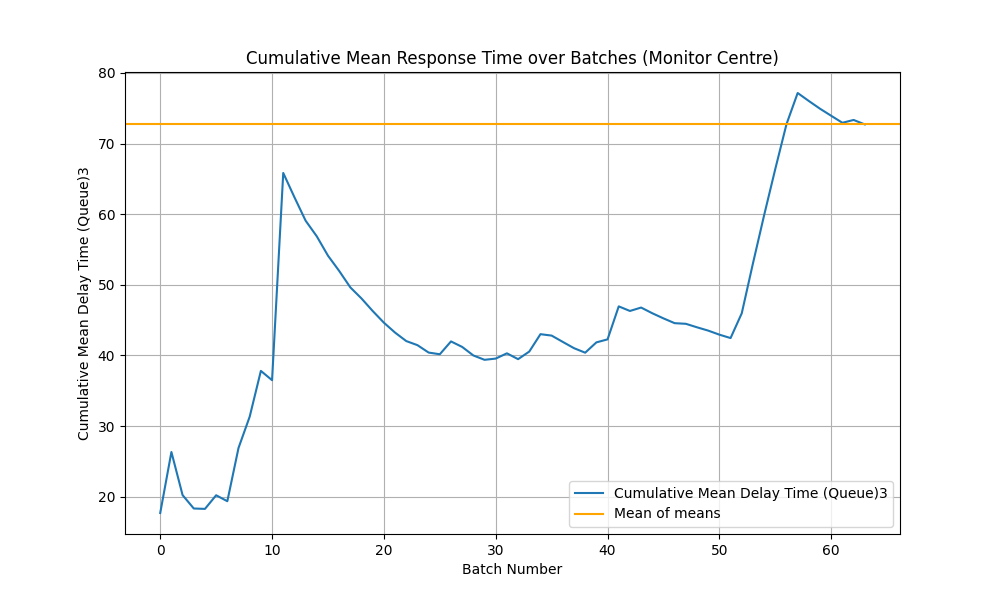
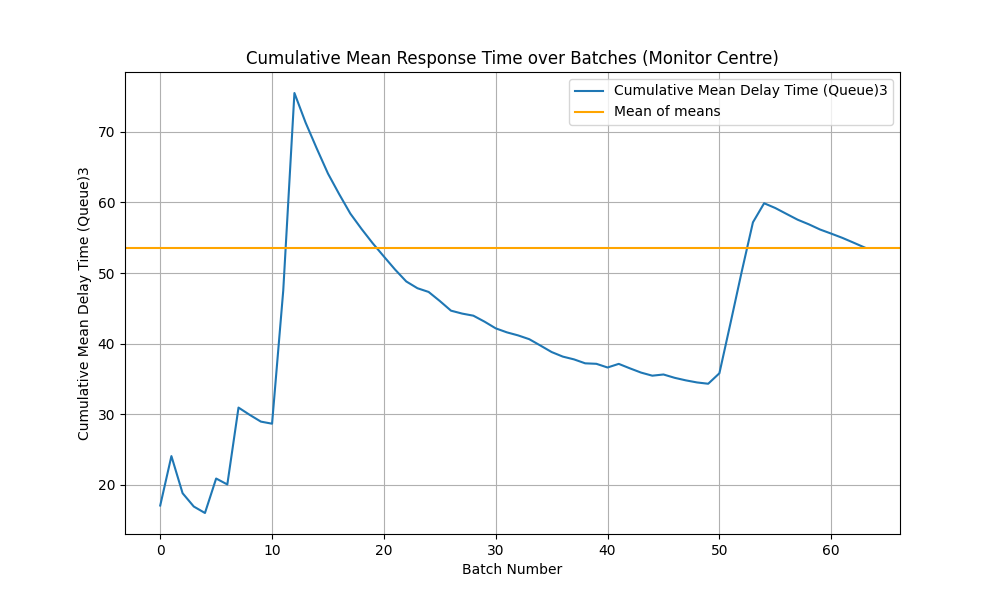
verifica

diff --git a/controller/QueueController.py b/controller/QueueController.py
@@ -40,7 +40,7 @@ def return_to_queue(job: Job, queue_, t):
     if job.get_codice() == 1:
         queue_[1].append(job)
     else:
-        queue_[2].append(job)
+        queue_[6].append(job)
     job.set_arrival_temp(t_queue.current)
     arrival_queue(t_queue, servers_busy_queue, queue_)
     t_queue.arrival = t.current
@@ -183,6 +183,12 @@ def completion_queue(t, server_busy, queue_q, area):
             area_queue.service_preemption[get_queue(job_to_serve.get_codice(), job_to_serve.get_uscita())] += t.current - job_to_serve.get_interrotto()
 
     if isinstance(job_completed, Job) and job_completed:
+        area.wait_time[job_completed.get_codice() + 1] += t.current - job_completed.get_arrival_temp()
+        area.jobs_complete_color[job_completed.get_codice() + 1] += 1
+        area.delay_time[
+            job_completed.get_codice() + 1] += job_completed.get_queue_time() - job_completed.get_arrival_temp()
+        return job_completed
+
         if job_completed.get_uscita():
             if job_completed.get_codice() == 1:
                 area.wait_time[1] += t.current - job_completed.get_arrival_temp()
@@ -207,28 +213,13 @@ def completion_queue(t, server_busy, queue_q, area):
 
 
 def queue_data(area, t, queue_first):
-    logger.info("STATS FOR INITIAL QUEUE")
-    logger.info(f"Average inter-arrival time: {t.last / sum(area.jobs_completed):.2f}")
-    logger.info(f"Average wait: {sum(area.wait_time) / sum(area.jobs_completed):.2f}")
-    logger.info(f"Average delay: {sum(area.delay_time) / sum(area.jobs_completed):.2f}")
-    logger.info(f"Average service: {(sum(area.wait_time) - sum(area.delay_time)) / sum(area.jobs_completed):.2f}")
-    logger.info(f"Average service no preemptive: {sum(area.service_color) / sum(area.jobs_completed):.2f}")
-
-    logger.info(f"Average number_queue in the node: {sum(area.wait_time) / t.last:.2f}")
-    logger.info(f"Average number_queue in the queue: {sum(area.delay_time) / t.last:.2f}")
-
-    for i in range(NUMERO_DI_SERVER_QUEUE):
-        utilization = area.service[i] / t.last if t.last > 0 else 0
-        avg_service_time = area.service[i] / area.jobs_completed[i] if area.jobs_completed[
-                                                                           i] > 0 else 0
-        logger.info(f"Utilization of server {i + 1}: {utilization:.2f}")
-        logger.info(f"Average service time of server {i + 1}: {avg_service_time:.2f}")
-        logger.info(f"t_last {i + 1}: {t.last:.2f}")
-        logger.info(f"Servizio {i + 1}: {area.service[i]:.2f}")
+    print("\nStats for queue:")
+    utilization = sum(area.service) / (t.last*NUMERO_DI_SERVER_QUEUE)
+    print(f"Rho: {utilization:.6f}")
 
     for i in range(len(queue_first)):
         if area.jobs_complete_color[i] != 0:
-            logger.info(
-                f"Tempo di risposta medio {i + 1}: {area.wait_time[i] / area.jobs_complete_color[i]:.10f}")
-            logger.info(
-                f"Tempo di attesa medio {i + 1}: {area.delay_time[i] / area.jobs_complete_color[i]:.10f}")
+            print(
+                f"E[Tq]: {area.delay_time[i] / area.jobs_complete_color[i]:.6f} min")
+            print(
+                f"E[Ts]: {area.wait_time[i] / area.jobs_complete_color[i]:.6f} min")

diff --git a/controller/EsamiController.py b/controller/EsamiController.py
@@ -89,6 +89,7 @@ def pass_to_analisi(job, queue1, t1):
     t_Analisi[analisi].arrival = t1.last
     t_Analisi[analisi].arrival = check_arrival(t1.arrival + Parameters.STOP)
     arrival_analisi(t_Analisi[analisi], servers_busy_Analisi[analisi], queue1[analisi], analisi)
+    job.set_arrival_temp(t1.current)
     return analisi
 
 
@@ -191,23 +192,10 @@ def probability_analisi(volte_analisi):
 
 
 def single_analisi_data(area, t, queue_first, index):
-    logger.info(f"STATS FOR ANALISI: {index:.0f}")
-    logger.info(
-        f"Average interarrival time: {t.last / sum(area.jobs_completed) if sum(area.jobs_completed) > 0 else 0:.2f}")
-    logger.info(f"Average wait: {area.node / sum(area.jobs_completed) if sum(area.jobs_completed) > 0 else 0:.2f}")
-    logger.info(f"Average delay: {area.queue / sum(area.jobs_completed) if sum(area.jobs_completed) > 0 else 0:.2f}")
-    logger.info(
-        f"Average service time: {sum(area.service) / sum(area.jobs_completed) if sum(area.jobs_completed) > 0 else 0:.2f}")
-    logger.info(f"Average number_triage in the node: {area.node / t.last:.8f}")
-    logger.info(f"Average number_triage in the queue: {area.queue / t.last:.8f}")
-    logger.info(f"T last: {t.last:.2f}")
+    print(f"\nStats for {analisi_disponibili[index]}:")
+    utilization = sum(area.service) / (t.last * NUMERO_SERVER_ANALISI[index])
+    print(f"Rho: {utilization:.6f}")
 
-    for i in range(NUMERO_SERVER_ANALISI[index]):
-        utilization = area.service[i] / t.last if t.last > 0 else 0
-        avg_service_time = area.service[i] / area.jobs_completed[i] if area.jobs_completed[i] > 0 else 0
-        logger.info(f"Utilization of server {i + 1}: {utilization:.8f}")
-        logger.info(f"Average service time of server {i + 1}: {avg_service_time:.2f}")
     for i in range(len(queue_first)):
         if area.jobs_complete_color[i] != 0:
-            logger.info(f"Attesa media {i + 1}: {area.wait_time[i] / area.jobs_complete_color[i]}")
-            logger.info(f"Tempo di attesa medio {i + 1}: {area.delay_time[i] / area.jobs_complete_color[i]:.10f}")
+            print(f"E[Ts]: {area.wait_time[i] / area.jobs_complete_color[i]:.6f} min")

diff --git a/report/calcolo_labda.py b/report/calcolo_labda.py
@@ -1,0 +1,60 @@
+def calculate_lambda_7(lambda_1, p_7, p_15, epsilon=1e-300):
+    """
+    Calcola il valore di lambda_7 iterativamente fino a convergenza.
+
+    Parametri:
+    - lambda_1: Valore di lambda_1.
+    - p_7: Valore di p_7.
+    - p_15: Valore di p_15.
+    - epsilon: Soglia di convergenza (default 1e-10).
+
+    Ritorna:
+    - Il valore di lambda_7 dopo la convergenza.
+    """
+    # Inizializza lambda_7 con un valore iniziale arbitrario (ad esempio 0)
+    lambda_7 = 0
+    diff = float('inf')  # Differenza iniziale grande
+
+    while diff > epsilon:
+        # Calcola la nuova somma ricorsiva con l'attuale lambda_7
+        new_lambda_7 = lambda_1 * (1 - p_7) + recursive_sum(lambda_1, p_7, lambda_7, p_15, epsilon)
+
+        # Calcola la differenza tra il vecchio e il nuovo valore di lambda_7
+        diff = abs(new_lambda_7 - lambda_7)
+
+        # Aggiorna lambda_7 per la prossima iterazione
+        lambda_7 = new_lambda_7
+
+    return lambda_7
+
+
+def recursive_sum(lambda_1, p_7, lambda_7, p_15, epsilon, current_term=1, power=1):
+    """
+    Funzione ricorsiva per calcolare la somma infinita.
+
+    Parametri:
+    - lambda_1, p_7, lambda_7, p_15: Parametri del sistema.
+    - epsilon: Soglia sotto la quale un termine è considerato insignificante.
+    - current_term: Termini già sommati (default 1).
+    - power: Potenza corrente di p_15 (default 1).
+
+    Ritorna:
+    - La somma calcolata ricorsivamente.
+    """
+    # Calcola il termine corrente
+    term = lambda_7 * (p_15 ** power)
+
+    # Se il termine corrente è minore di epsilon, fermati
+    if term < epsilon:
+        return 0
+
+    # Continua con la somma ricorsiva
+    return term + recursive_sum(lambda_1, p_7, lambda_7, p_15, epsilon, current_term + 1, power + 1)
+
+
+lambda_1 = 0.092163242
+p_7 = 0.0
+p_15 = 0.377141
+
+result = calculate_lambda_7(lambda_1, p_7, p_15)
+print("lambda_7 =", result)

diff --git a/controller/TriageController.py b/controller/TriageController.py
@@ -33,6 +33,7 @@ def give_code():
 
 
 def assign_triage_code():
+    return 5
     # Lista dei codici corrispondenti: 1 ROSSO, 2 ARANCIONE, 3 BLU, 4 VERDE, 5 BIANCO
     codes = [1, 2, 3, 4, 5]
     cumulative_probabilities = [0.063, 0.259, 0.642, 0.948, 1.0]  # Probabilità cumulative
@@ -153,24 +154,14 @@ def completion_triage(t, server_busy, queue_t, area):
 
 def triage_data(area, t, queue_t):
     total_jobs_completed = sum(area.jobs_completed)
-    logger.info("STATS FOR TRIAGE")
-    logger.info(f"Average inter-arrival time: {t.last / total_jobs_completed:.2f}")
-    logger.info(f"Average wait: {area.node / total_jobs_completed:.2f}")
-    logger.info(f"Average delay: {area.queue / total_jobs_completed:.2f}")
-    logger.info(f"Average delay NOW: {sum(area.delay_time) / total_jobs_completed:.2f}")
-    logger.info(f"Average service time: {(sum(area.service) + area.service_preemptive) / total_jobs_completed:.2f}")
-    logger.info(f"Average number in the node: {area.node / t.last:.2f}")
-    logger.info(f"Average number in the queue: {area.queue / t.last:.2f}")
-    logger.info(f"T last: {t.last:.2f}")
+    print("\n\n\n\n\n\n\n\n\n\nStats for triage:")
+
 
     for i in range(NUMERO_DI_SERVER_TRIAGE):
         utilization = area.service[i] / t.last if t.last > 0 else 0
-        logger.info(f"Utilization of server {i + 1}: {utilization:.2f}")
-    for i in range(len(queue_t)):
-        if area.jobs_complete_color[i] != 0:
-            logger.info(f"Tempo di risposta medio {i + 1}: {area.wait_time[i] / area.jobs_complete_color[i]:.10f}")
-            logger.info(f"Tempo di attesa medio {i + 1}: {area.delay_time[i] / area.jobs_complete_color[i]:.10f}")
+        print(f"Rho: {utilization:.6f}")
 
+    print(f"E[Ts]: {area.node / total_jobs_completed:.6f} min")
 
 def triage_data_rec(area, t, queue_t):
     logger.info(f"Average wait: {sum(area.wait_time) / sum(area.jobs_completed):.2f}")

diff --git a/controller/SimulationController.py b/controller/SimulationController.py
@@ -134,6 +134,14 @@ def simulation(stop, batch_size = 1, number_valid_batch = 64):
     t_triage.last = t_queue.last = t_Analisi[0].last = t_Analisi[1].last = t_Analisi[2].last = t_Analisi[3].last = \
         t_Analisi[4].last = t_Analisi[5].last = max_value(t_Analisi, t_triage.last, t_queue.last)
 
+    print("Queue", index_queue)
+    print("Analisi", index_Analisi, "Analisi tot ", sum(index_Analisi), "Differenza", index_queue-sum(index_Analisi))
+    for i in range(len(index_Analisi)):
+        print("Analisi %", index_Analisi[i]/index_queue)
+
+    triage_data(area_triage,t_triage,queue_triage)
+    queue_data(area_queue,t_queue,queue)
+    analisi_data(area_Analisi,t_Analisi,queue_Analisi)
     # print("Ci sono state: ", sum(violations), "violazioni su ", analisi_1_volta, "ovvero: ",
     #      (sum(violations) / analisi_1_volta))
     return stat(t_triage, area_triage), stat(t_queue, area_queue), stats(t_Analisi, area_Analisi), batch_res
@@ -158,11 +166,10 @@ def processa_completamento_triage():
     job_completed = completion_triage(t_triage, servers_busy_triage, queue_triage, area_triage)
     job_completed.set_tempo_rimanente(0)
 
-    if job_completed.get_codice() == 1 or job_completed.get_codice() == 2 or scegli_azione():
+    if scegli_azione():
         number_queue += 1
         pass_to_queue(job_completed, queue)
         t_queue.arrival = check_arrival(t_triage.arrival + Parameters.STOP)
-
 
 def control_job_violation(job_to_control: Job):
     if (job_to_control.get_queue_time() - job_to_control.get_arrival_temp()) > OBIETTIVO[
@@ -266,7 +273,7 @@ def scegli_azione():
     global departed_job
 
     selectStream(3)
-    if random() > 0.01:
+    if random() > 0.02:
         return True
     else:
         departed_job += 1

diff --git a/controller/ExamsQueueController.py b/controller/ExamsQueueController.py
@@ -8,13 +8,9 @@ logging.basicConfig(level=logging.INFO, format='%(message)s')
 logger = logging.getLogger(__name__)
 
 # ECG = 1, EMOCROMO = 2, TAC = 3, RADIOGRAFIA = 4, ECOGRAFIA = 5, ALTRO = 6
-NUMERO_DI_SERVER_ANALISI = [2, 2, 2, 2, 2, 2]
 NUMERO_DI_ANALISI = 6
 
 server_list = [[] for _ in range(NUMERO_DI_ANALISI)]
-
-for i in range(len(NUMERO_DI_SERVER_ANALISI)):
-    server_list[i] = [[Job] for _ in range(NUMERO_DI_SERVER_ANALISI[i])]
 
 # Inizializzazione delle code rosse
 queueRed_a = [[] for _ in range(NUMERO_DI_ANALISI)]
@@ -33,6 +29,7 @@ def get_analisi():
 
 
 def determina_numero_analisi():
+    return 1
     # Probabilità cumulative per il numero di analisi da fare (0-6)
     selectStream(5)
     num_analisi = [0, 1, 2, 3, 4, 5, 6]
@@ -54,13 +51,13 @@ frequenze_assolute = {
     5: {'ECG': 110, 'Ecografia': 50, 'Emocromo': 130, 'Radiografia': 80, 'Tac': 25, 'Altro': 105},
     6: {'ECG': 120, 'Ecografia': 57, 'Emocromo': 143, 'Radiografia': 95, 'Tac': 30, 'Altro': 155}
 }
-
+# ECG = 1, EMOCROMO = 2, TAC = 3, RADIOGRAFIA = 4, ECOGRAFIA = 5, ALTRO = 6
 analisi_disponibili = ['ECG', 'Emocromo', 'Tac', 'Radiografia', 'Ecografia', 'Altro']
 
 
 def scegli_analisi(numero_analisi):
     selectStream(6)
-    analisi_frequenze = frequenze_assolute[numero_analisi]
+    analisi_frequenze = frequenze_assolute[6]
     totale_frequenze = sum(analisi_frequenze.values())
     cumulative_prob = {}
     cumulative = 0

diff --git a/main.py b/main.py
@@ -365,7 +365,7 @@ if __name__ == "__main__":
         elif (args.modality is None or args.modality == "infinite") and args.repetition is None:
             print("Inizio simulazione ad orizzonte infinito... ")
             infinite(DEFAULT, Parameters.STOP, batch_size)
-            output_infinite(args.modality, args.better, args.white)
+            #output_infinite(args.modality, args.better, args.white)
         else:
             raise Exception("Argomento dei flag non valido")
 

diff --git a/utility/Parameters.py b/utility/Parameters.py
@@ -7,7 +7,7 @@ OBIETTIVO_MIGLIORATIVO = [0, 5, 20, 50, 110, 230]  # MIGLIORATIVO CON TEMPO LIMI
 migliorativo = False
 
 # True = Exponential  False = Truncate G.
-MODALITY = False
+MODALITY = True
 
 INFINITY = float(100.0 * STOP)  # must be much larger than STOP  */
 NUMBER_BATCH = 64
